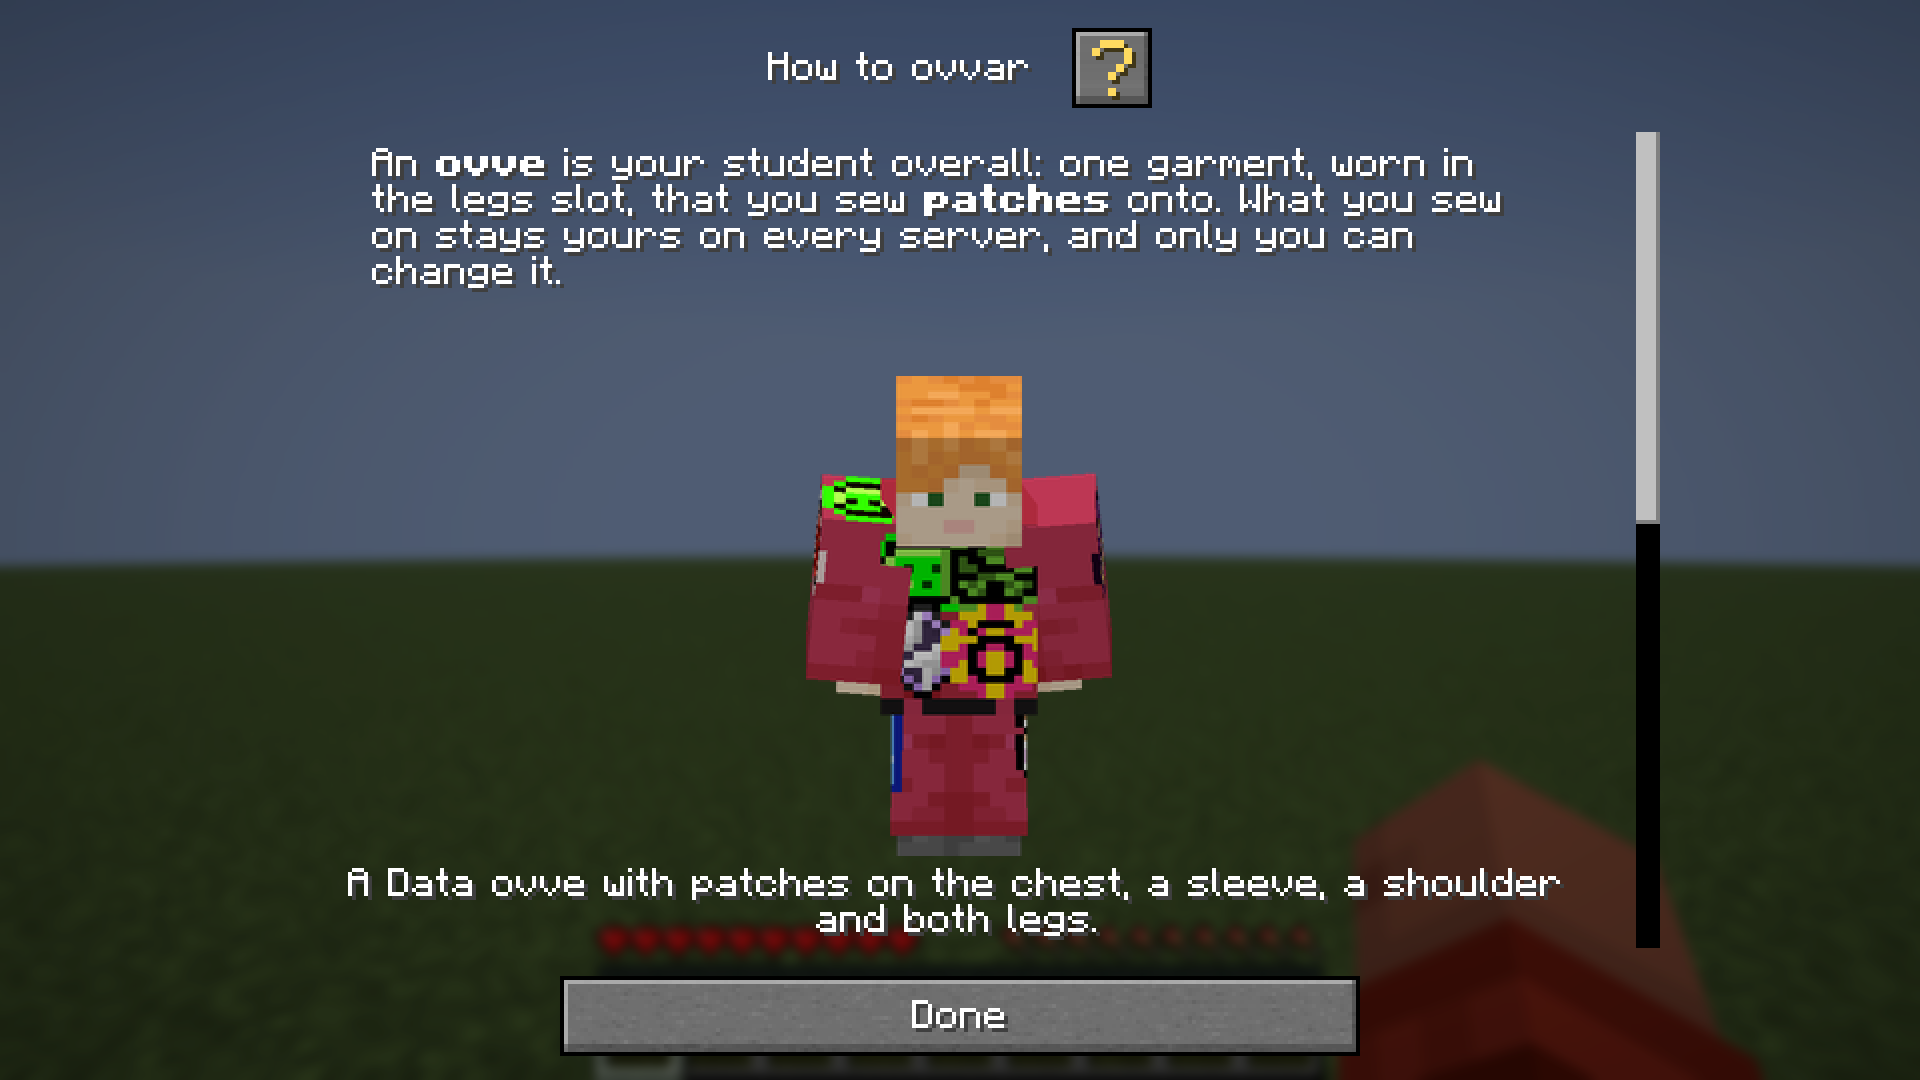
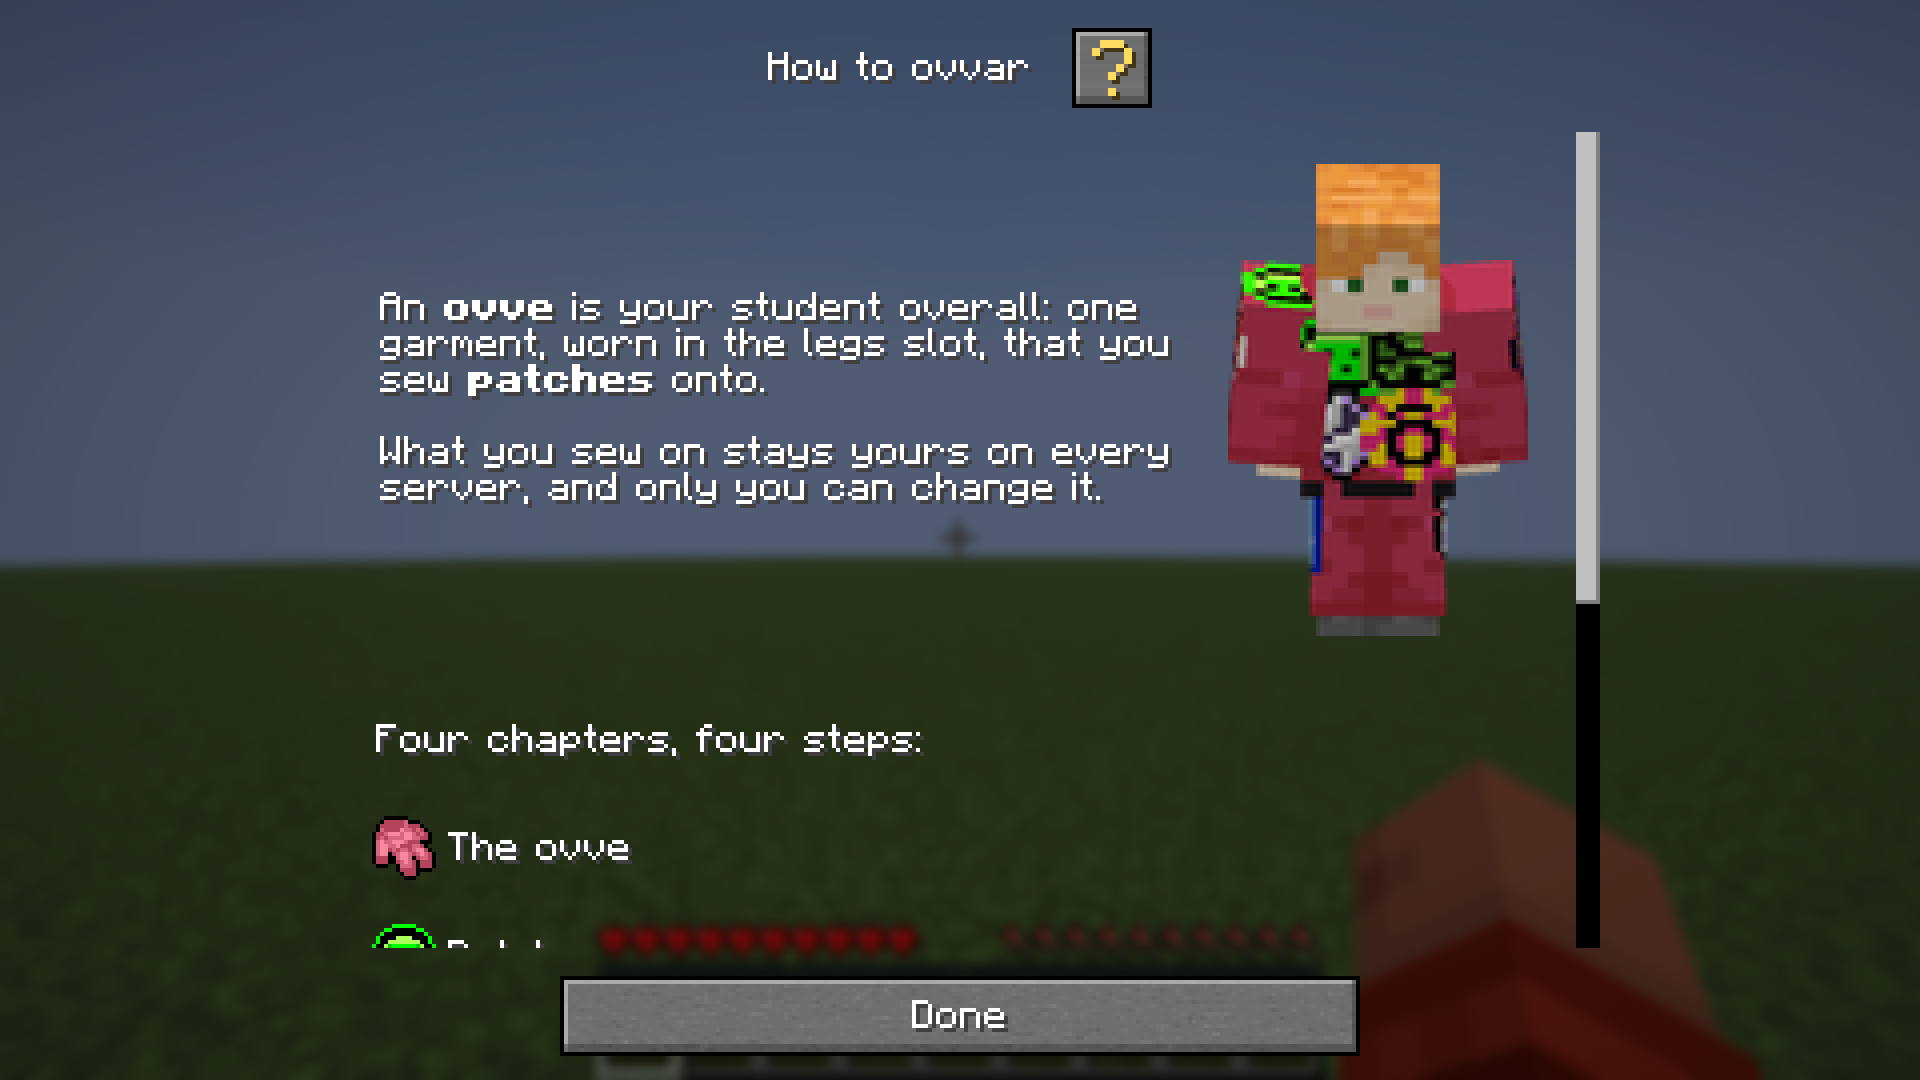
metacraft-booklet: pictures beside the text, and the stash menu itself
Every picture now sits to the right of the text it goes with. Dialog bodies only stack, but
Booklet draws an image as rows of 9 px glyph lines, the height of a text line: Beside wraps a
page's text to the room left of the picture and joins each text line to one image row, and a
mixin on Booklet's ImageBody uses that for any image under beside/. Pictures are made at their
display size for it.

The wardrobe page shows the stash menu as a player sees it: BookletRenders gives the Tester a
design and sixteen patches, opens /ovvar stash at GUI scale 1 and cuts the menu out of the
screenshot at its own pixels. GuideClientTests also photographs each page scrolled down.

Changed region(s): [[0.1562, 0.1222, 0.875, 0.8861]]

diff --git a/mods/metacraft-booklet/tools/booklet_images.py b/mods/metacraft-booklet/tools/booklet_images.py
@@ -1,41 +1,48 @@
 #!/usr/bin/env python3
-"""Trims BookletRenders' output into the page images Booklet shows.
+"""Turns BookletRenders' output into the page images Booklet shows.
 
     METACRAFT_BOOKLET_RENDER=1 ./gradlew :mods:metacraft-booklet:runClientGameTest
     python3 mods/metacraft-booklet/tools/booklet_images.py
 
-Each render is cut to what was drawn (the background is transparent) and laid, centred, on a
-transparent image WIDTH px wide. Booklet draws an image at one pixel per UI pixel up to 292 px wide
-and divides larger ones by ceil(width / 292), so a 584 px image is shown at half size: twice the
-detail in the same space. The subject is scaled to fit BOX (in image pixels, so half that in UI
-pixels). The result goes to src/main/resources/assets/metacraft/textures/booklet/image/<name>.png.
+Every picture sits beside text (Beside.java: an image under beside/), where one image pixel is one UI
+pixel, so each is made at its display size: an isometric render is cut to what was drawn (the
+background is transparent) and scaled to fit SIZE; a screenshot cut-out (the stash menu, taken at GUI
+scale 1) is already at its own pixels and is copied as it is. The results go to
+src/main/resources/assets/metacraft/textures/booklet/image/beside/<name>.png.
 """
+import shutil
 from pathlib import Path
 from PIL import Image
 
 MODULE = Path(__file__).resolve().parent.parent
 SRC = MODULE / "build/booklet-renders"
-DST = MODULE / "src/main/resources/assets/metacraft/textures/booklet/image"
-WIDTH = 584
-BOX = {"ovvar/chapters": (480, 260), "canvas/wall": (400, 230)}
-DEFAULT_BOX = (400, 240)
-PAD = 6
[1 lines of base64/hex data omitted]
+# (width, height) the picture must fit, in UI pixels.
+SIZE = {"ovvar/chapters": (140, 110), "canvas/wall": (100, 110)}
+DEFAULT_SIZE = (100, 118)
+AS_IS = {"ovvar/stash"}
+PAD = 2
 
+shutil.rmtree(DST, ignore_errors=True)
 for src in sorted(SRC.rglob("*.png")):
     name = src.relative_to(SRC).with_suffix("").as_posix()
     if name.startswith("probe/"):
+        continue
+    dst = DST / f"{name}.png"
+    dst.parent.mkdir(parents=True, exist_ok=True)
+    if name in AS_IS:
+        shutil.copyfile(src, dst)
+        print(f"{name}: as is -> {dst.relative_to(MODULE)}")
         continue
     im = Image.open(src).convert("RGBA")
     box = im.getbbox()
     if box is None:
         raise SystemExit(f"{name}: the render is empty")
     im = im.crop(box)
-    bw, bh = BOX.get(name, DEFAULT_BOX)
+    bw, bh = SIZE.get(name, DEFAULT_SIZE)
     scale = min(bw / im.width, bh / im.height)
     im = im.resize((max(1, round(im.width * scale)), max(1, round(im.height * scale))), Image.LANCZOS)
-    out = Image.new("RGBA", (WIDTH, im.height + 2 * PAD))
-    out.alpha_composite(im, ((WIDTH - im.width) // 2, PAD))
-    dst = DST / f"{name}.png"
-    dst.parent.mkdir(parents=True, exist_ok=True)
+    out = Image.new("RGBA", (im.width + 2 * PAD, im.height + 2 * PAD))
+    out.alpha_composite(im, (PAD, PAD))
     out.save(dst, optimize=True)
     print(f"{name}: {out.size[0]}x{out.size[1]} -> {dst.relative_to(MODULE)}")

diff --git a/mods/metacraft-booklet/src/main/java/nu/metacraft/booklet/Beside.java b/mods/metacraft-booklet/src/main/java/nu/metacraft/booklet/Beside.java
@@ -1,0 +1,62 @@
+package nu.metacraft.booklet;
+
+import eu.pb4.booklet.api.TextUncenterer;
+import eu.pb4.booklet.impl.BookletImageHandler;
+import net.fabricmc.fabric.api.networking.v1.context.PacketContext;
+import net.minecraft.network.chat.CommonComponents;
+import net.minecraft.network.chat.Component;
+import net.minecraft.network.chat.MutableComponent;
+import net.minecraft.resources.Identifier;
+import net.minecraft.server.dialog.body.PlainMessage;
+import xyz.nucleoid.server.translations.api.LocalizationTarget;
+
+import java.util.ArrayList;
+import java.util.List;
+
+/**
+ * Text on the left, a picture on the right — a layout a dialog body does not have, since bodies
+ * stack. A page asks for it with an image under {@code beside/}:
+ * <pre>
+ *   ### Image: metacraft:beside/ovvar/hero The text that goes to the left of the picture.
+ * </pre>
+ * Booklet draws an image as rows of 9 px glyph lines, the same height as a line of text; so the text
+ * is wrapped to the room left of the picture (every line padded to exactly that width, as Booklet's
+ * own left-aligned text is), and each text line and image row are joined into one line. The shorter
+ * of the two is centred against the other. One pixel of image is one UI pixel here, so a picture
+ * beside text is made at its display size.
+ */
+public final class Beside {
+	private Beside() {}
+
+	public static final String PREFIX = "beside/";
+	/** The page body's width, as Booklet's (### Width defaults to 300), and its text inset. */
+	private static final int WIDTH = 300, INSET = 8, GAP = 8;
+
+	public static boolean wants(Identifier image) {
+		return image.getPath().startsWith(PREFIX);
+	}
+
+	public static PlainMessage layout(Identifier id, Component text, PacketContext context) {
+		BookletImageHandler.ProcessedImage image = BookletImageHandler.getImage(id);
+		String glyphs = image.component().getString();
+		String[] rows = glyphs.split("\n", -1);
+		int imageWidth = image.width() - 8;   // ProcessedImage.width carries 8 px of body margin
+		int textWidth = Math.max(40, WIDTH - INSET - GAP - imageWidth);
+
+		String language = LocalizationTarget.of(context).getLanguageCode();
+		List<Component> lines = TextUncenterer.getLeftAligned(text, textWidth, language);
+
+		int count = Math.max(lines.size(), rows.length);
+		int textTop = (count - lines.size()) / 2, imageTop = (count - rows.length) / 2;
+		List<Component> out = new ArrayList<>(count);
+		for (int i = 0; i < count; i++) {
+			int t = i - textTop, r = i - imageTop;
+			MutableComponent line = Component.empty();
+			line.append(t >= 0 && t < lines.size() ? lines.get(t) : TextUncenterer.filler(textWidth));
+			line.append(TextUncenterer.filler(GAP));
+			if (r >= 0 && r < rows.length) line.append(Component.literal(rows[r]).setStyle(image.component().getStyle()));
+			out.add(line);
+		}
+		return new PlainMessage(CommonComponents.joinLines(out), WIDTH);
+	}
+}

diff --git a/mods/metacraft-booklet/src/gametest/java/nu/metacraft/booklet/clienttest/BookletRenders.java b/mods/metacraft-booklet/src/gametest/java/nu/metacraft/booklet/clienttest/BookletRenders.java
@@ -115,11 +115,54 @@ public final class BookletRenders implements FabricClientGameTest {
 				for (Scene scene : SCENES) {
 					if (!Files.exists(out.resolve(scene.name() + ".png"))) throw new AssertionError("no render of " + scene.name());
 				}
+				stash(ctx, server, conn, out.resolve("ovvar/stash.png"));
 				System.out.println("[metacraft-booklet] rendered " + SCENES.size() + " page image(s) to " + out.toAbsolutePath());
 			} catch (IOException e) {
 				throw new AssertionError(e);
 			}
 		}
+	}
+
+	/**
+	 * The stash menu, cut out of a screenshot: the Tester is given a design and some patches, opens
+	 * {@code /ovvar stash} at GUI scale 1, so the menu is drawn at its own pixels, and the top part
+	 * of the chest screen (the wardrobe; the Tester's inventory below it is left out) is kept.
+	 */
+	private static void stash(ClientGameTestContext ctx, TestDedicatedServerContext server, TestDedicatedServerConnection conn, Path file) {
+		server.runCommand("gamemode survival Tester");
+		// /ovvar give needs a player to run it (the console is refused), and each gift is a write to the
+		// wardrobe store that the next one must see, so they go one at a time.
+		server.runCommand("execute as Tester run ovvar give data itk it data spiken slaggan");
+		ctx.waitTicks(20);
+		for (String patch : List.of("itk", "tmeit", "jgs", "in", "kommn", "rivals", "nyckeln0x1", "maid")) {
+			server.runCommand("ovvar patch give Tester " + patch + " 2");
+			ctx.waitTicks(10);
+		}
+		ctx.waitTicks(60);
+		server.runCommand("execute as Tester run ovvar reload");
+		acceptResourcePack(ctx);
+		ctx.runOnClient(client -> {
+			client.options.guiScale().set(1);
+			client.resizeGui();
+		});
+		server.runCommand("execute as Tester run ovvar stash");
+		conn.waitForClientboundPackets();
+		ctx.waitFor(client -> client.gui.screen() instanceof net.minecraft.client.gui.screens.inventory.ContainerScreen, 20 * 10);
+		ctx.getInput().setCursorPos(0, 0);   // no slot hovered, no tooltip
+		ctx.runOnClient(client -> client.gui.toastManager().clear());
+		ctx.waitTicks(20);
+		Path shot = ctx.takeScreenshot(net.fabricmc.fabric.api.client.gametest.v1.screenshot.TestScreenshotOptions.of("stash_full"));
+		try {
+			BufferedImage full = ImageIO.read(shot.toFile());
+			// A 9×6 chest screen is 176×222, centred; its top 17 px are the title and 6 rows of 18 the
+			// menu, then a 3 px margin before the inventory's own label.
+			int w = 176, h = 17 + 6 * 18 + 3;
+			int x = (full.getWidth() - w) / 2, y = (full.getHeight() - 222) / 2;
+			ImageIO.write(full.getSubimage(x, y, w, h), "png", file.toFile());
+		} catch (IOException e) {
+			throw new AssertionError("cannot cut the stash out of " + shot, e);
+		}
+		ctx.runOnClient(client -> client.gui.setScreen(null));
 	}
 
 	private static final List<Scene> SCENES = List.of(

diff --git a/mods/metacraft-booklet/src/main/java/nu/metacraft/booklet/mixin/ImageBodyMixin.java b/mods/metacraft-booklet/src/main/java/nu/metacraft/booklet/mixin/ImageBodyMixin.java
@@ -1,0 +1,30 @@
+package nu.metacraft.booklet.mixin;
+
+import eu.pb4.booklet.api.body.ImageBody;
+import net.fabricmc.fabric.api.networking.v1.context.PacketContext;
+import net.minecraft.network.chat.Component;
+import net.minecraft.resources.Identifier;
+import net.minecraft.server.dialog.body.PlainMessage;
+import nu.metacraft.booklet.Beside;
+import org.spongepowered.asm.mixin.Final;
+import org.spongepowered.asm.mixin.Mixin;
+import org.spongepowered.asm.mixin.Shadow;
+import org.spongepowered.asm.mixin.injection.At;
+import org.spongepowered.asm.mixin.injection.Inject;
+import org.spongepowered.asm.mixin.injection.callback.CallbackInfoReturnable;
+
+import java.util.Optional;
+
+/** An image under {@code beside/} with a description is laid out text-left, picture-right ({@link Beside}). */
+@Mixin(value = ImageBody.class, remap = false)
+public abstract class ImageBodyMixin {
+	@Shadow @Final private Identifier identifier;
+	@Shadow @Final private Optional<Component> description;
+
+	@Inject(method = "asVanillaBody", at = @At("HEAD"), cancellable = true)
+	private void metacraft$beside(PacketContext context, CallbackInfoReturnable<PlainMessage> cir) {
+		if (Beside.wants(this.identifier) && this.description.isPresent()) {
+			cir.setReturnValue(Beside.layout(this.identifier, this.description.get(), context));
+		}
+	}
+}

diff --git a/mods/metacraft-booklet/src/gametest/java/nu/metacraft/booklet/clienttest/GuideClientTests.java b/mods/metacraft-booklet/src/gametest/java/nu/metacraft/booklet/clienttest/GuideClientTests.java
@@ -68,6 +68,13 @@ public final class GuideClientTests implements FabricClientGameTest {
 					ctx.waitTicks(2);
 					String name = "guide_" + page.getNamespace() + "_" + page.getPath().replace('/', '_');
 					ctx.takeScreenshot(TestScreenshotOptions.of(name));
+					// And the rest of a long page: scrolled down over the dialog's body.
+					ctx.getInput().setCursorPos(960, 540);
+					ctx.getInput().scroll(-6);
+					ctx.waitTicks(3);
+					ctx.getInput().setCursorPos(0, 0);
+					ctx.waitTicks(2);
+					ctx.takeScreenshot(TestScreenshotOptions.of(name + "_more"));
 					ctx.runOnClient(client -> client.gui.setScreen(null));
 					ctx.waitTicks(5);
 				}

diff --git a/mods/metacraft-booklet/README.md b/mods/metacraft-booklet/README.md
@@ -26,21 +26,30 @@ lines are lists and numbered lines are not, and `<anything>` in angle brackets i
 **metacraft-kultur** has no chapter yet: the mod was not available when this was written. Its hook is the
 same shape as the others.
 
-## Page images
+## Page images, beside the text
 
-The pictures on the pages are isometric renders on a transparent background, made the way Patbox makes
-PolyFactory's: with his client-only [Simple Image Renderer](https://github.com/Patbox/SimpleImageRenderer),
-here driven by a client test instead of by hand. `BookletRenders` builds each scene in a flat world
-(mannequins in patched ovvar, a sewing stand, a painted wall of canvases) and renders it; the tool script
-trims the renders into `src/main/resources/assets/metacraft/textures/booklet/image/`:
+Every picture sits to the right of the text it goes with. Dialog bodies stack, so there is no such
+layout in Booklet; `Beside` makes one. Booklet draws an image as rows of 9 px glyph lines, the height
+of a line of text, so a page that names an image under `beside/`
+
+    ### Image: metacraft:beside/ovvar/hero The text that goes to the left of the picture.<nl2>More.
+
+has its text wrapped to the room left of the picture and each text line joined to one image row
+(`ImageBodyMixin` swaps Booklet's own layout for that one). Here one image pixel is one UI pixel, so
+each picture is made at its display size, about 80–180 px wide.
+
+The isometric renders are made the way Patbox makes PolyFactory's, with his client-only
+[Simple Image Renderer](https://github.com/Patbox/SimpleImageRenderer), driven by a client test instead of
+by hand. `BookletRenders` builds each scene in a flat world (mannequins in patched ovvar, a sewing stand,
+a painted wall of canvases) and renders it; it also gives the Tester a design and a stash, opens
+`/ovvar stash` at GUI scale 1 and cuts the menu out of a screenshot at its own pixels. The script trims
[1 lines of base64/hex data omitted]
 
     METACRAFT_BOOKLET_RENDER=1 ./gradlew :mods:metacraft-booklet:runClientGameTest
     python3 mods/metacraft-booklet/tools/booklet_images.py
 
-Booklet draws an image at one pixel per UI pixel up to 292 px wide and divides wider ones by
-`ceil(width / 292)`, so the script lays every picture on a 584 px wide transparent image: shown at half
-size, twice as sharp. A page shows one with `### Image: metacraft:<path> Caption`; `GuideTests` fails if
-the image is missing. A new scene is a line in `BookletRenders.SCENES` and a few in its `build`.
+`GuideTests` fails if a page names an image that is not there. A new scene is a line in
+`BookletRenders.SCENES` and a few in its `build`.
 
 ## PolyDecorations: canvas only
 
@@ -69,4 +78,5 @@ question mark in the same style. It applies to every server dialog, not only the
 The dev runtime loads ovvar (run its `runDatagen` first) and PolyDecorations, so every chapter is on.
 `GuideTests` checks every page loads with a title, description and icon, is reachable from the index,
 and names only pages and items that exist, and that PolyDecorations is down to its canvas recipes.
-`GuideClientTests` opens every page on a vanilla client in a 1080p window and photographs it.
+`GuideClientTests` opens every page on a vanilla client in a 1080p window and photographs it, and again
+scrolled down (`docs/*_more.png`).
